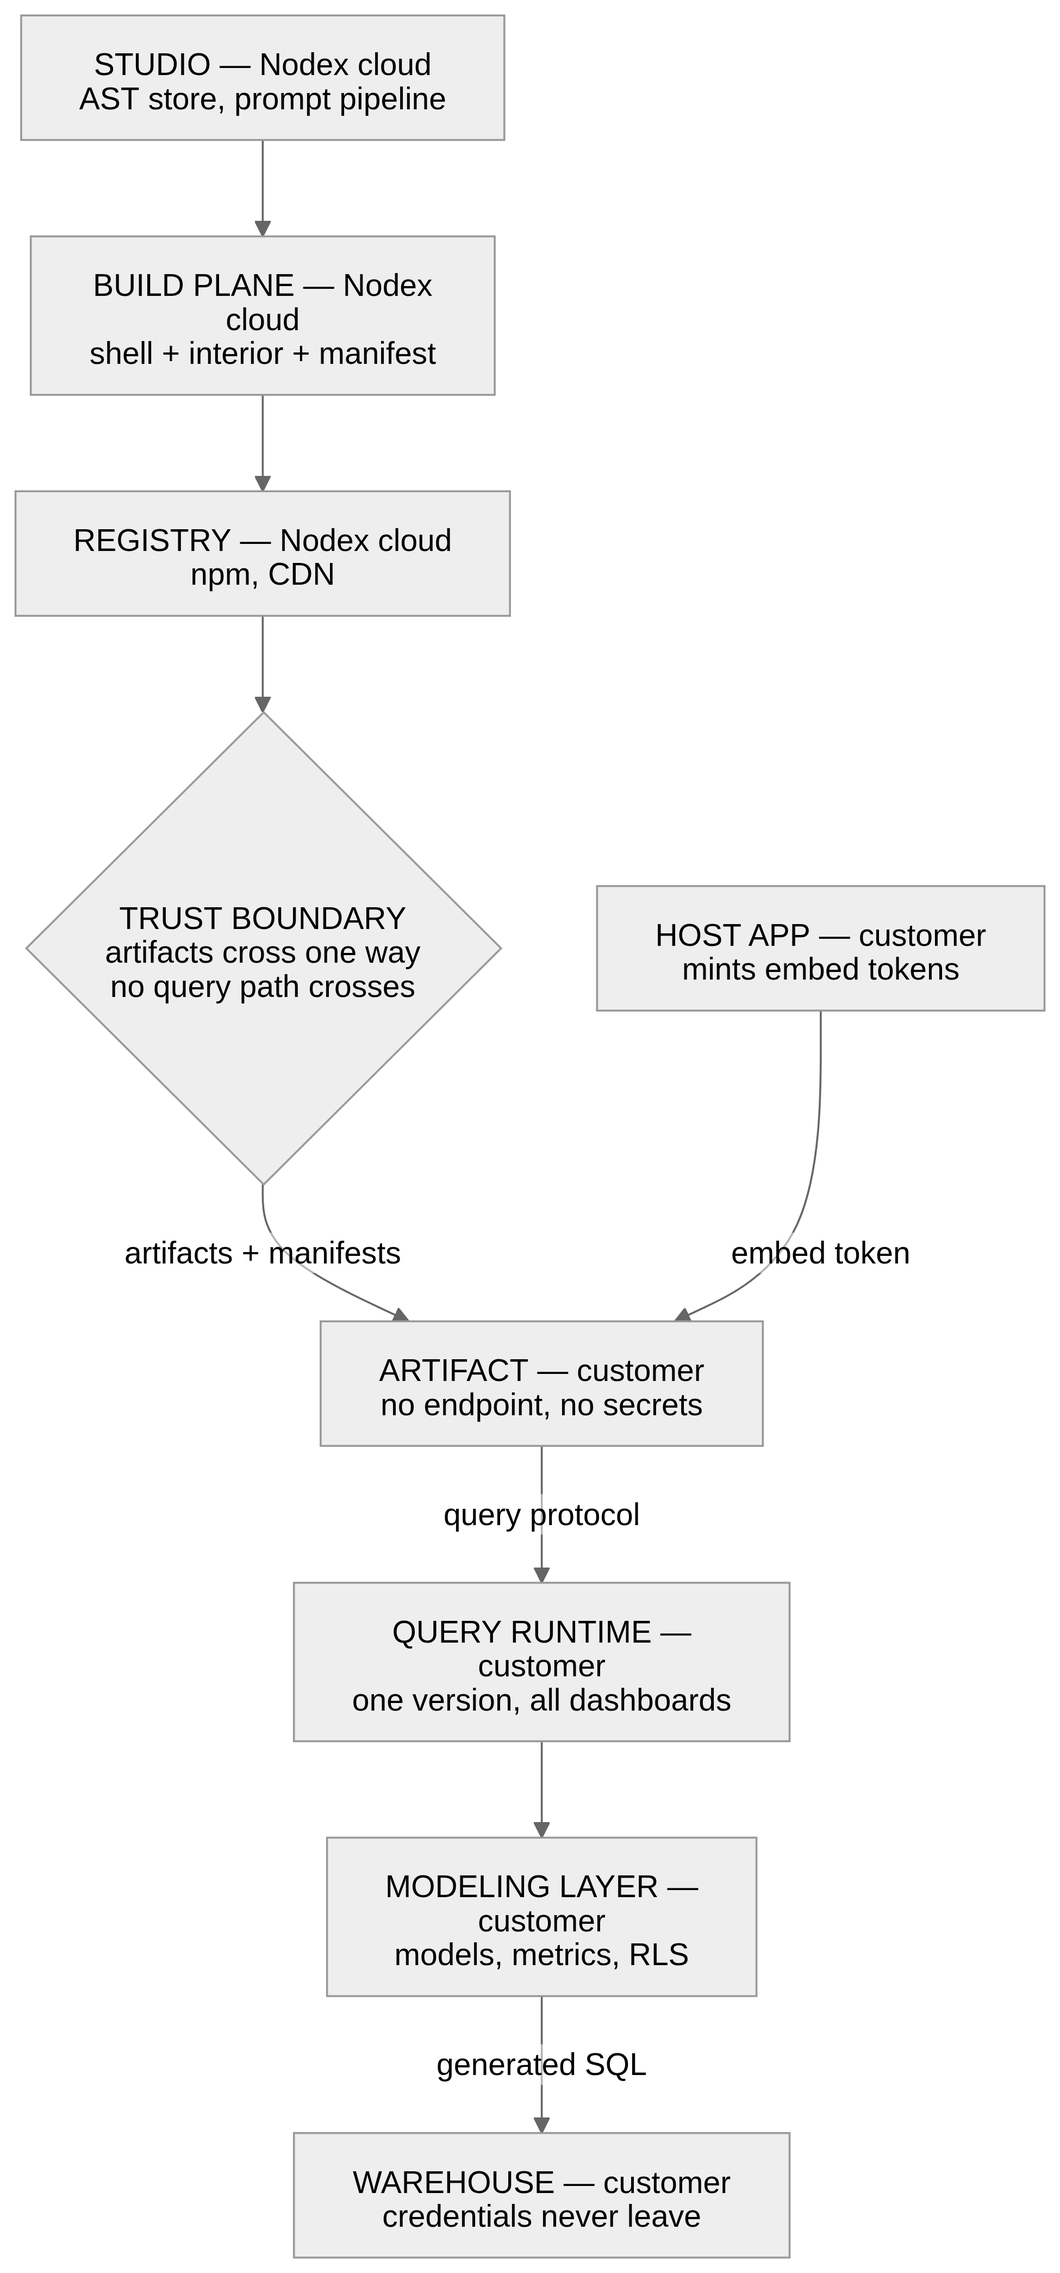
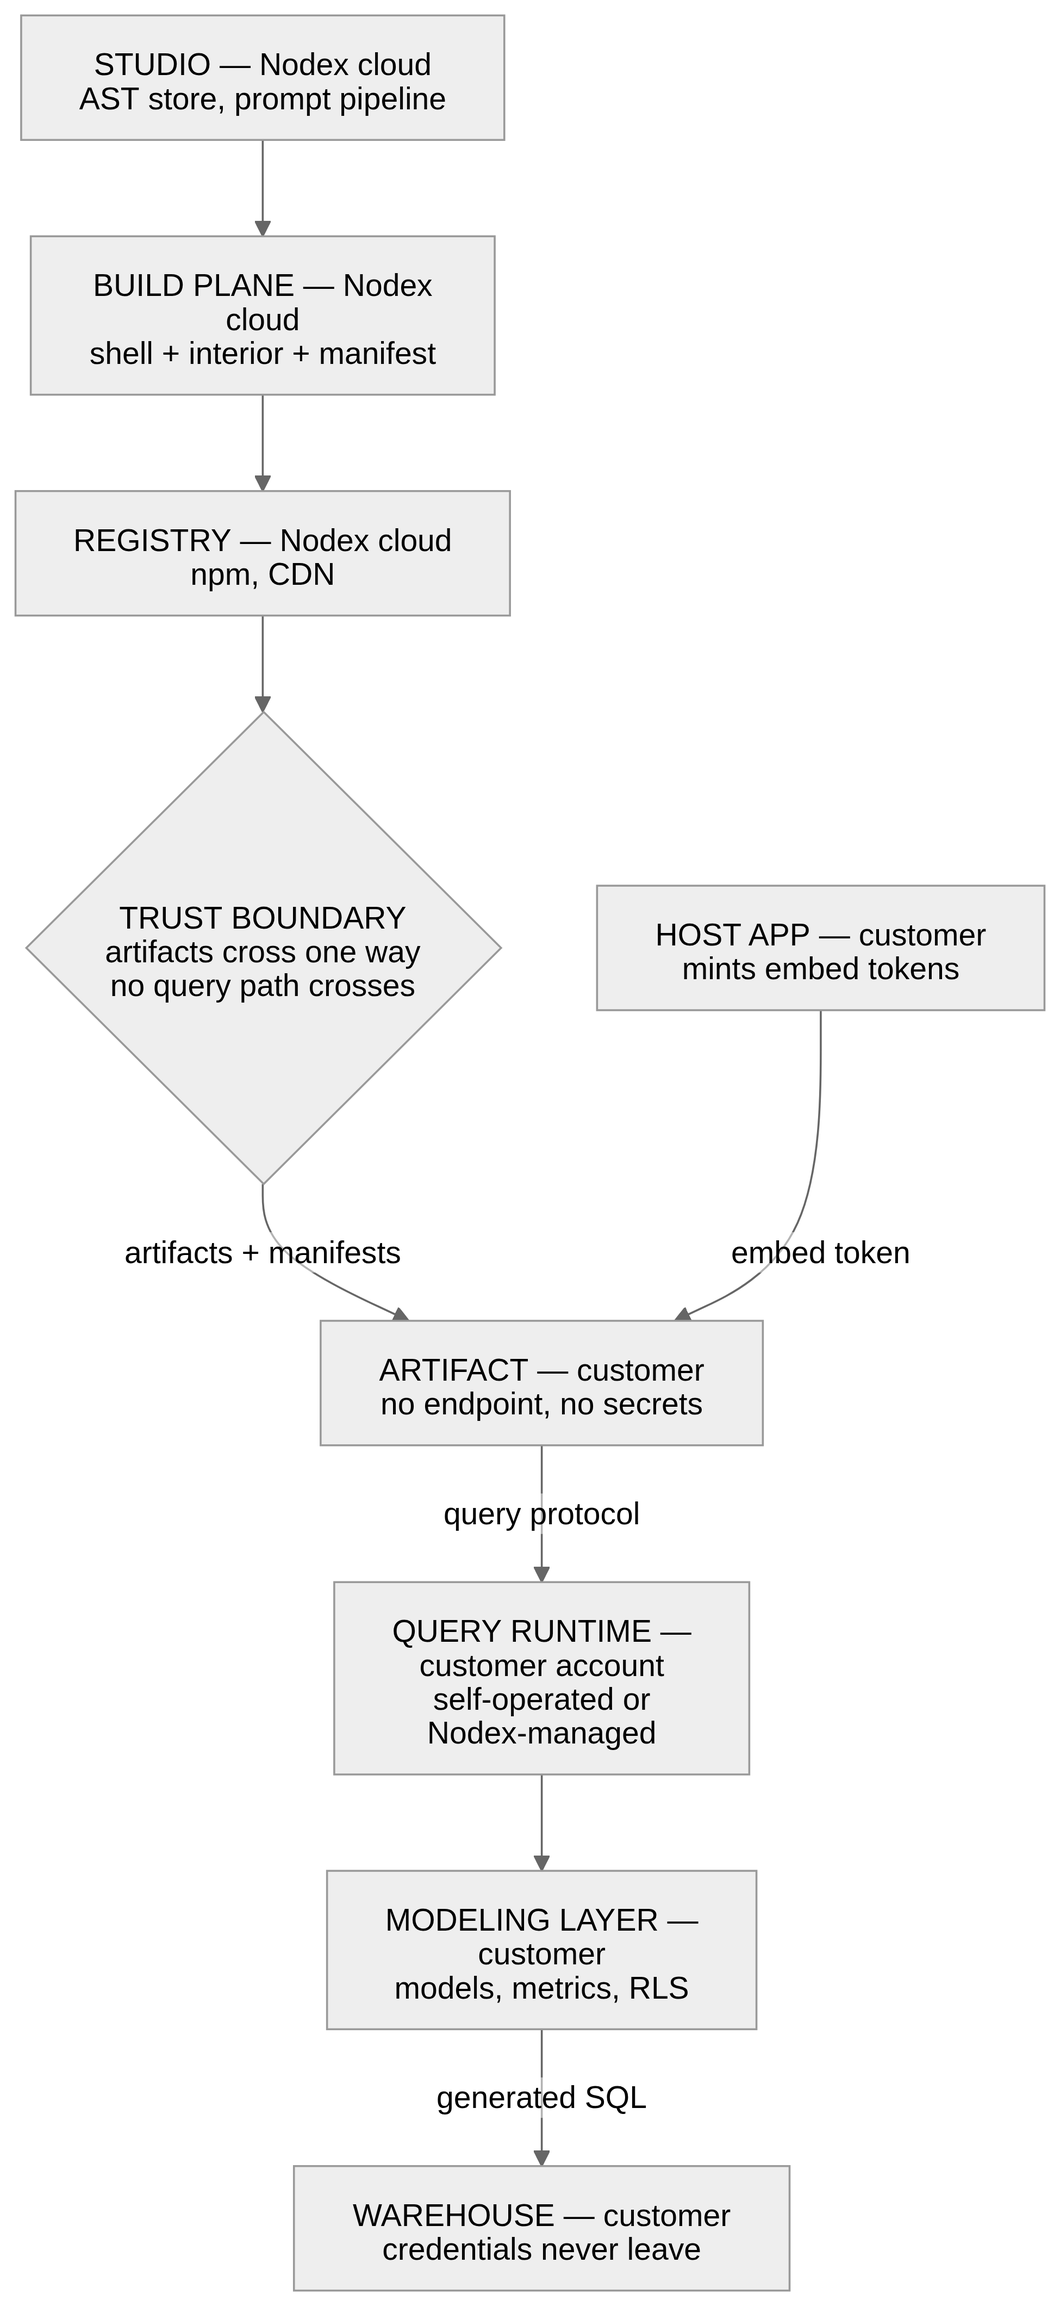
Separate where the runtime runs from who operates it
Nodex can now offer managed hosting, which the document flatly contradicted in
six places -- I8, the trust boundary diagram, the No public query API section,
and the positioning argument all asserted the runtime was customer-operated.

Almost none of it needed retracting. I8 was worded against the wrong boundary:
it said "the customer's network" when the load-bearing property is that the
control plane holds no credentials and proxies no queries. Because ADR-0004
made the runtime a versioned deployable executing inert manifests, who operates
it is a deployment choice, not an architectural one.

So the rule is now that the runtime always runs in the customer's own network
or cloud account, and operation is the variable. A managed plan means Nodex
deploys and operates it inside the customer's account through a scoped role:
credentials stay in the customer's secret store and are referenced rather than
held, every action lands in the customer's own audit log, and the role is
revocable without stopping the runtime. No data path crosses into Nodex cloud
in either model, so the system-of-intelligence claim survives verbatim.

O8 records the honest exception: whether an operator may read query results or
result-bearing logs while debugging a managed runtime.

Managed runtimes also compress the version-skew problem, since Nodex upgrades
them within an agreed window. The compatibility rules still assume the long
tail, because self-operation remains supported.

diff --git a/html/template.html b/html/template.html
@@ -4,7 +4,7 @@
 <meta charset="utf-8">
 <meta name="viewport" content="width=device-width, initial-scale=1">
 <title>Nodex Studio Spec</title>
-<meta name="description" content="The specification for Nodex Studio: the intelligence layer over a customer's system of record. How a dashboard is authored, compiled, distributed six ways, and run inside the customer's own network.">
+<meta name="description" content="The specification for Nodex Studio: the intelligence layer over a customer's system of record. How a dashboard is authored, compiled, distributed six ways, and run inside the customer's own environment.">
 <meta name="color-scheme" content="light dark">
 <meta property="og:title" content="Nodex Studio Spec">
 <meta property="og:description" content="The intelligence layer over a customer's system of record. Nine invariants, seven decisions, five open questions.">
@@ -37,7 +37,7 @@
 
     <div class="masthead">
       <h1>Nodex Studio Spec</h1>
-      <p class="sub">The intelligence layer over a customer's existing system of record: how a dashboard is authored, compiled, distributed six ways, and run inside the customer's own network.</p>
+      <p class="sub">The intelligence layer over a customer's existing system of record: how a dashboard is authored, compiled, distributed six ways, and run inside the customer's own environment &mdash; whether they operate it or we do.</p>
       <div class="meta">
         <span><b>Status</b> Draft</span>
         <span><b>Revised</b> 28 September 2026</span>

diff --git a/08-security.md b/08-security.md
@@ -12,7 +12,10 @@
 └───────────────────┬──────────────────────────┘
                     │  artifacts + manifests only
                     │  (no runtime data path)
-┌───────────────────▼──────────── customer network ─┐
+┌───────────────────▼── customer network / account ─┐
+│  (runtime operated by the customer, or by Nodex   │
+│   through a scoped role — it runs here either way)│
+│                                                   │
 │  host application ─── mints embed tokens          │
 │         │                                         │
 │  dashboard artifact ──▶ query runtime             │
@@ -31,9 +34,11 @@ query ever crosses it.**
 
 ## No public query API
 
-Customer-managed frontends query a customer-operated runtime, never Nodex cloud.
+Frontends query a runtime in the customer's own environment, never Nodex cloud.
 This is a deliberate product decision and it removes an entire class of exposure
-that would otherwise be the largest surface in the system.
+that would otherwise be the largest surface in the system. It survives the
+managed-hosting option intact, because managed means Nodex operates the runtime
+in the customer's account — not that queries come to us.
 
 Had exported dashboards been able to query Nodex cloud, we would need a public,
 internet-facing, multi-tenant query API: embed-token validation for every
@@ -44,16 +49,22 @@ internet. Every one of those is a place to get multi-tenant isolation wrong.
 None of it exists, because the data path never leaves the customer's network.
 
 The trade-off is honest and should be stated to customers: **every export format
-requires the customer to run the query runtime.** A customer who wants a single
-widget in an internal app must still deploy infrastructure. That is a real
-commercial constraint, and it is the price of the property above.
+requires a query runtime in the customer's own environment.** A customer who wants
+a single widget in an internal app still needs one. The managed plan removes the
+burden of operating it, not the requirement for it — there is no path where a
+dashboard queries Nodex cloud. That is a real commercial constraint, and it is
+the price of the property above.
 
 ## Credentials
 
-**Warehouse credentials never leave the customer's network (I8).** They are held
-by the query runtime and the modeling layer, both customer-operated. The control
-plane has no field for them, no code path that accepts them, and no ability to
-proxy a query.
+**Warehouse credentials never leave the customer's environment (I8).** They are
+held by the query runtime and the modeling layer, in the customer's own secret
+store. The control plane has no field for them, no code path that accepts them,
+and no ability to proxy a query. This holds on a Nodex-managed plan too: the
+runtime still runs in the customer's account, and the role Nodex holds there can
+deploy and restart the service but cannot read the warehouse or retrieve the
+credential values
+([Data plane](06-data-plane.md#where-it-runs-and-who-operates-it)).
 
 Studio's preview needs data, and gets it the same way everything else does:
 through the customer's own runtime, over a customer-configured development
@@ -114,6 +125,20 @@ control:
 - Framing controls (`X-Frame-Options` / CSP `frame-ancestors`) are set by the
   customer for their standalone and iframe deployments; we document the required
   configuration rather than guessing it.
+
+## Operational access on managed plans
+
+When Nodex operates a runtime in a customer's account, operational access is a
+trust surface even though no data custody changes hands. The controls are stated
+in [Data plane](06-data-plane.md#what-nodex-managed-means-concretely): a
+least-privilege role scoped to deploying and running the service, credentials
+held by reference rather than value, every action landing in the customer's own
+audit log, and revocation available to the customer at any time without stopping
+the runtime.
+
+The principle is that we operate the service without reading what passes through
+it. **O8 (OPEN)** covers the one place that principle bends — whether an operator
+may read query results or result-bearing logs while debugging an incident.
 
 ## Tenant isolation in the control plane
 

diff --git a/06-data-plane.md b/06-data-plane.md
@@ -1,7 +1,61 @@
 # 06 — Data plane
 
-Everything in this document runs inside the customer's network. Nodex operates
-none of it, holds no warehouse credentials (**I8**), and never proxies a query.
+Everything in this document runs inside the customer's own environment. The
+control plane holds no warehouse credentials (**I8**) and never proxies a query.
+Nodex may *operate* the runtime on a managed plan, but it runs in the customer's
+account either way — see below.
+
+## Where it runs and who operates it
+
+Two independent questions. Conflating them is how a deployment conversation goes
+wrong, because one of them is fixed and the other is a choice.
+
+**Where it runs is not a choice.** The runtime sits in the customer's own network
+or cloud account, always. This is I8, and it is what lets the product claim it
+never holds the customer's data — a claim that would otherwise be
+untrue the moment we offered hosting
+([Product update](00a-product-update.md)).
+
+**Who operates it is a choice.**
+
+| | Self-operated | Nodex-managed |
+|---|---|---|
+| Runs in | Customer's network or cloud account | Customer's cloud account |
+| Deployed and upgraded by | The customer | Nodex, through a scoped role |
+| Credentials held by | The customer's secret store | The customer's secret store |
+| Upgrade pace | Customer's schedule | Nodex's, within an agreed window |
+| Suits | Airgapped, regulated, or infrastructure-confident customers | Customers who want the capability without running it |
+
+Because the runtime is a single versioned deployable executing inert manifests
+(I9, [ADR-0004](adr/0004-manifest-not-service.md)), who operates it is a
+deployment decision rather than an architectural one. Nothing about the manifest,
+the query protocol, or the artifact changes between these columns.
+
+### What Nodex-managed means concretely
+
+- Nodex holds a **scoped role in the customer's cloud account** — enough to
+  deploy, upgrade, monitor and restart the runtime. Not enough to read from the
+  warehouse.
+- **Warehouse credentials stay in the customer's own secret store.** Nodex
+  configures the runtime with a reference to them, never the value, and cannot
+  retrieve them through the role it holds.
+- **Every action is logged in the customer's own account**, in their audit trail
+  rather than one we show them.
+- **The role is revocable by the customer at any time**, which stops managed
+  operation and leaves the runtime in place, still running.
+
+The operating principle is that Nodex operates the service without reading the
+data passing through it. **O8 (OPEN)** is the honest exception: whether an
+operator may read query results or result-bearing logs while debugging a
+customer's incident. Convenient, occasionally the fastest path to a fix, and the
+one hole in the claim above. Decide it deliberately and write it into the
+contract rather than discovering it during an incident.
+
+### What it buys beyond convenience
+
+Managed customers stay close to current, which shrinks the version-skew problem
+that [Versioning](07-versioning.md) is largely about. The long tail of runtimes
+eleven months behind is a property of self-operation, not of the architecture.
 
 ## The central decision: manifest, not service
 
@@ -170,12 +224,12 @@ to one user, one dashboard, and a short expiry.
 
 ## Deployment and upgrade
 
-The runtime is a normal customer-operated service: deployed into their network,
-with access to their warehouse and their model repository, upgraded when they
-choose.
+The runtime is a normal service deployed into the customer's environment, with
+access to their warehouse and their model repository, upgraded when they choose —
+or, on a managed plan, when Nodex does within the agreed window.
 
-Because we cannot force an upgrade, the release process must assume a long tail
-of versions in production:
+For self-operated customers we cannot force an upgrade, so the release process
+must assume a long tail of versions in production:
 
 - Published version support window and deprecation policy
   ([07-versioning.md](07-versioning.md)).

diff --git a/01-overview.md b/01-overview.md
@@ -18,7 +18,7 @@ dashboard as a real, deployable, importable artifact in six different shapes.
 | **Business user** | Explores. Poses a question in Studio, builds a chart, filters it, shares it by link. Their work is ephemeral and produces no package (I10), so they need no developer skills and can break nothing. |
 | **Consuming developer** | Also employed by the customer, but a different person and often a different team. Imports the exported package into an internal application and writes code against its public API by hand. Their code is not generated and not visible to us. |
 | **End user** | Views the dashboard, applies filters, drills in. Subject to row-level security. |
-| **Operator** | Runs the query runtime in the customer's environment, upgrades it, holds the warehouse credentials. |
+| **Operator** | Runs the query runtime, upgrades it, holds the warehouse credentials. Either the customer or Nodex on a managed plan — in both cases the runtime sits inside the customer's own environment (I8). |
 
 The consuming developer is the actor most easily forgotten and the one who
 constrains the design most, because they are the only party who writes
@@ -35,8 +35,11 @@ frontend artifact and the query manifest. Deterministic: same AST in, byte-ident
 public API out.
 
 **Data plane — the customer's environment.** The query runtime, the bipp data
-models, and the warehouse. Customer-operated, customer-paced. Warehouse
-credentials live here and only here.
+models, and the warehouse. It always runs in the customer's own network or cloud
+account; it may be operated by the customer, or by Nodex on a managed plan inside
+that same account. Warehouse credentials live here and only here (I8). Where it
+runs and who operates it are separate questions — see
+[Data plane](06-data-plane.md#where-it-runs-and-who-operates-it).
 
 The separation is what makes on-premise deployment a configuration rather than a
 product variant. It also means that a customer-managed dashboard never queries
@@ -76,8 +79,10 @@ tree.
 the auth token provider are injected at runtime. One artifact serves every
 deployment topology.
 
-**I8 — Warehouse credentials never leave the customer's network.** The control
-plane never holds them and never proxies a query.
+**I8 — Warehouse credentials never leave the customer's environment.** The
+runtime holds them and runs in the customer's own network or cloud account,
+whoever operates it. The control plane never holds them and never proxies a
+query.
 
 **I9 — One query runtime, many manifests.** Dashboards generate declarative
 manifests, not deployable services. There is exactly one executable to patch.
@@ -129,3 +134,4 @@ Deliberately unresolved. Each needs an owner before implementation starts.
 | O5 | Where the AST is stored for on-premise customers — Nodex cloud or the customer's own git. bipp already has git-based version control, which argues for theirs | [02-ast.md](02-ast.md) |
 | O6 | Who closes the content-governance gap — folders, certification, usage analytics, lineage. It degrades fastest under our usage pattern, not bipp's | [00b-platform.md](00b-platform.md) |
 | O7 | Whether the runtime pushes updates (SSE or WebSocket) or the client polls. Polling ships sooner; push is the only honest answer for a dashboard on a wall | [06-data-plane.md](06-data-plane.md) |
+| O8 | Whether a Nodex operator may read query results or result-bearing logs while debugging a managed runtime. Convenient, and the one hole in "we never see your data" | [08-security.md](08-security.md) |

diff --git a/07-versioning.md b/07-versioning.md
@@ -9,13 +9,19 @@ control.
 | | Cadence | Controlled by | Version skew |
 |---|---|---|---|
 | **Control plane** (Studio, build) | Continuous | Nodex | None — one version live |
-| **Query runtime** (customer premises) | Customer-paced | Customer | Months to years |
+| **Query runtime** (customer's environment) | Customer-paced, or Nodex-paced when managed | Customer, or Nodex | Months to years self-operated; small when managed |
 | **Exported artifacts** (npm, CDN) | Pinned at install | Consuming developer | Indefinite |
 
-A realistic steady state: Studio is on this week's build, a customer's runtime is
-eleven months old, and a team inside that customer has a dashboard package pinned
-from before the runtime was last upgraded. All three must interoperate, and none
-of them can be forced.
+A realistic steady state: Studio is on this week's build, a self-operated runtime
+is eleven months old, and a team inside that customer has a dashboard package
+pinned from before the runtime was last upgraded. All three must interoperate,
+and none of them can be forced.
+
+Managed runtimes compress the middle row — Nodex upgrades them within an agreed
+window, so those customers stay close to current
+([Data plane](06-data-plane.md#where-it-runs-and-who-operates-it)). The long tail
+is a property of self-operation, not of the architecture. The compatibility rules
+below still have to assume it, because self-operation remains supported.
 
 Two consequences follow, and they are the spine of this document:
 

diff --git a/00a-product-update.md b/00a-product-update.md
@@ -50,10 +50,15 @@ this document is what makes that a description rather than a claim.
 becoming a second system of record: they ingest, extract, cache, and within a
 year the organization has a subtly different duplicate of its own numbers, and a
 new argument about which one is right. Nodex Studio is forbidden from doing this.
-Warehouse credentials never leave the customer's network (I8), queries run
+Warehouse credentials never leave the customer's environment (I8), queries run
 in-database with no extracts, and no data path crosses into Nodex cloud at all
 ([Security](08-security.md)). The data stays where the organization already
 governs it.
+
+This holds even when Nodex hosts. A managed plan means we deploy and operate the
+runtime inside the customer's own cloud account, not that queries come to us
+([Data plane](06-data-plane.md#where-it-runs-and-who-operates-it)). The claim is
+not a pricing tier, it is a property of the system.
 
 **It speaks the organization's own definitions.** Nodex Studio binds to the
 System of Record through the modeling layer, so it references metrics that were

diff --git a/05-distribution.md b/05-distribution.md
@@ -20,10 +20,13 @@ customer deploys them, and they query a runtime the customer also operates. **A
 customer-managed frontend never queries Nodex cloud** — see
 [08-security.md](08-security.md).
 
-Note that these are *delivery* modes. Where the query runtime lives is a separate
-question ([06-data-plane.md](06-data-plane.md)), and the two must not be
-conflated: a customer using the npm library and a customer using the iframe
-embed have identical data-plane requirements.
+Note that these are *delivery* modes, and they are independent of the data plane.
+Every one of them queries a runtime in the customer's own environment, which the
+customer may operate themselves or have Nodex operate for them
+([Data plane](06-data-plane.md#where-it-runs-and-who-operates-it)). A customer
+using the npm library and a customer using the iframe embed have identical
+data-plane requirements, and choosing a managed runtime changes nothing in this
+table.
 
 ## Runtime configuration
 

diff --git a/00b-platform.md b/00b-platform.md
@@ -42,8 +42,10 @@ fire when a number crosses a threshold.
 
 **Deployment options.** Cloud by default, self-hosted on the customer's own
 servers, or embedded in their web application. The self-hosted path is the
-precedent for the customer-operated data plane
-([Data plane](06-data-plane.md)) — that model is proven here, not invented by us.
+precedent for our data plane ([Data plane](06-data-plane.md)) — that model is
+proven here, not invented by us. Nodex Studio narrows it deliberately: the
+runtime always sits in the customer's own environment, and the hosting choice is
+who operates it rather than where it runs.
 
 ## What Nodex Studio adds
 
